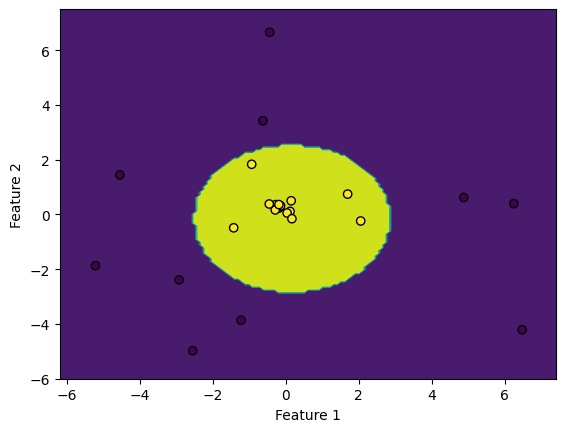
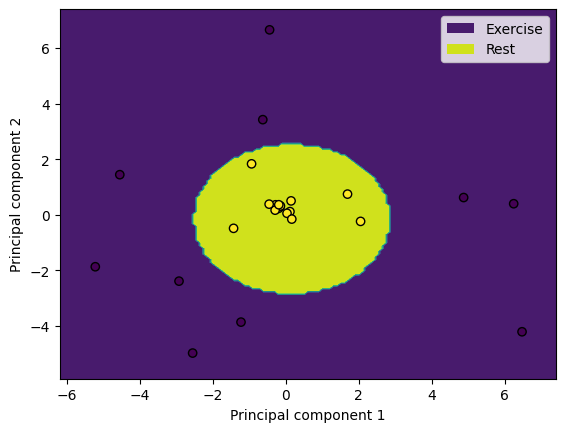
labels added to pca plot

diff --git a/ML_model/model_selection.py b/ML_model/model_selection.py
@@ -86,14 +86,15 @@ class pca:
         label = f'{name} {para}'
         label = re.sub(' +',' ',label)
 
-        plt.contourf(xx, yy, z)
+        cntr = plt.contourf(xx, yy, z)
+        h,_ = cntr.legend_elements()
 
         prd_class = classifier.predict(X)
         plt.scatter(X[:,0], X[:,1],c=prd_class,label = label,edgecolors='black')
 
-
-        plt.xlabel('Feature 1')
-        plt.ylabel('Feature 2')  
+        plt.legend([h[0], h[-1]], ['Exercise', 'Rest'])
+        plt.xlabel('Principal component 1')
+        plt.ylabel('Principal component 2')  
         plt.savefig(f'{label}.png', bbox_inches='tight')
         plt.show()
 
